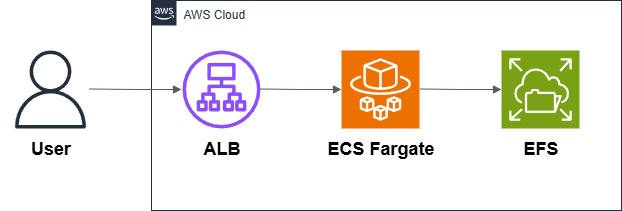
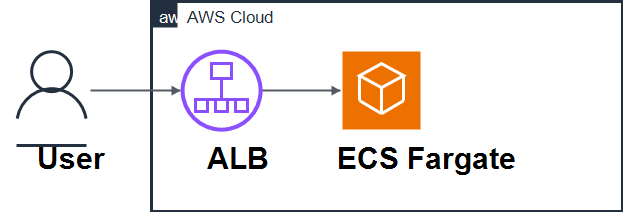
docs: align container architecture documentation

diff --git a/README.md b/README.md
@@ -1,6 +1,6 @@
 # AWS Containerized Web App
 
-This repository is a compact reference project for running a containerized web application on AWS using ECS Fargate, an Application Load Balancer, private subnets, and EFS shared storage.
+This repository is a compact reference project for running a containerized Node.js web application on AWS using ECS Fargate, an Application Load Balancer, private subnets, and Terraform.
 
 The configuration is intentionally compact so the infrastructure relationships are easy to inspect. It is a baseline deployment, not a complete container platform.
 
@@ -8,29 +8,28 @@ The configuration is intentionally compact so the infrastructure relationships a
 
 This project represents a small web application or internal service that runs as a container behind a load balancer while keeping ECS tasks in private subnets.
 
-Realistic examples include a simple backend web service, admin tool, or content-serving application where the ALB handles public HTTP routing and EFS provides shared file storage across task replacements.
+Realistic examples include a simple backend web service or internal service where the ALB handles public HTTP routing and ECS runs the application container in private subnets.
 
 ## What This Lab Demonstrates
 
 - Running a container task on AWS Fargate
 - Routing public HTTP traffic through an Application Load Balancer
 - Placing ECS tasks in private subnets
-- Mounting Amazon EFS into containers through an access point
-- Using Terraform modules to separate VPC, ALB, EFS, and ECS concerns
-- Identifying trade-offs around public access, shared storage, and network cost
+- Using Terraform modules to separate VPC, ALB, and ECS concerns
+- Identifying trade-offs around public access, private task networking, and network cost
 
 ## Architecture Overview
 
 ![Containerized Web App Diagram](diagram/containerized-web-app.png)
 
-The Terraform configuration creates a VPC with public and private subnets, an internet-facing ALB, an ECS Fargate service, and an EFS file system mounted into the task. The ALB listens on HTTP port 80 and forwards requests to the Fargate task.
+The Terraform configuration creates a VPC with public and private subnets, an internet-facing ALB, and an ECS Fargate service. The ALB listens on HTTP port 80 and forwards requests to the Node.js application container on port 3000.
 
 Runtime request flow:
 
 - A user request reaches the public ALB.
-- The ALB forwards the request to the ECS target group.
-- A Fargate task serves the application from private subnets.
-- The task can mount EFS when shared persistent files are needed.
+- The ALB forwards the request to the ECS target group on port 3000.
+- A Fargate task serves the Node.js application from private subnets.
+- ALB target health checks call `GET /health`.
 - Container logs are sent to CloudWatch Logs for basic runtime inspection.
 
 The ECS service uses a fixed desired count. Autoscaling is not currently implemented. Basic deployment rollback and ALB target health behavior are configured.
@@ -43,7 +42,6 @@ The ECS service uses a fixed desired count. Autoscaling is not currently impleme
 | Amazon ECS | Runs the container service |
 | AWS Fargate | Provides serverless container compute |
 | Elastic Load Balancing | Routes HTTP traffic to ECS tasks |
-| Amazon EFS | Provides shared persistent file storage |
 | AWS IAM | Provides ECS task execution and task roles |
 | Amazon CloudWatch Logs | Stores ECS task container logs |
 
@@ -55,8 +53,7 @@ The Terraform configuration provisions:
 - NAT gateway for private subnet outbound access, which creates standing hourly cost while deployed
 - Application Load Balancer and target group
 - ECS cluster, task definition, and service
-- EFS file system, mount targets, and access point
-- Security groups for ALB, ECS, and EFS
+- Security groups for ALB and ECS
 - IAM roles for ECS task execution and task permissions
 - CloudWatch log group for ECS task logs
 
@@ -64,14 +61,13 @@ The Terraform configuration provisions:
 
 | Path | Purpose |
 | --- | --- |
-| `main.tf` | Root Terraform wiring for VPC, EFS, ALB, and ECS modules |
-| `variables.tf` | Region and container image inputs |
+| `main.tf` | Root Terraform wiring for VPC, ALB, and ECS modules |
+| `variables.tf` | Region, naming, application image, and runtime inputs |
 | `app/` | Minimal TypeScript sample app and Dockerfile |
 | `.github/workflows/ci.yml` | GitHub Actions workflow for app, container, and Terraform validation |
 | `modules/vpc/` | VPC, subnets, and NAT gateway |
 | `modules/alb/` | ALB, listener, target group, and ALB security group |
 | `modules/ecs-fargate/` | ECS cluster, task definition, service, and IAM roles |
-| `modules/efs/` | EFS file system, mount targets, access point, and security group |
 | `diagram/` | Architecture diagram |
 | `images/` | Demo screenshots |
 
@@ -81,12 +77,15 @@ Prerequisites:
 
 - AWS credentials configured locally
 - Terraform installed
+- An externally built application image reference for `app_image_uri`
 - A region where the selected services are available
 
 Deploy:
 
 ```bash
 terraform init
+cp terraform.tfvars.example terraform.tfvars
+# Edit terraform.tfvars and set app_image_uri to an image you control.
 terraform plan
 terraform apply
 terraform output alb_dns_name
@@ -122,9 +121,9 @@ npm run test:container
 
 The smoke test builds the image, starts a temporary container on `127.0.0.1`, runs it with a read-only root filesystem, drops Linux capabilities, enables `no-new-privileges`, checks `GET /health` and `GET /`, verifies the runtime UID is not root, stops the container through Docker, checks shutdown logs, and removes the temporary container.
 
-Terraform deployment still uses the configured `container_image` value and the existing nginx/EFS path. Wiring this sample image into ECS, adding ECR, and publishing immutable image tags are left for a later batch. AWS runtime validation remains pending until the infrastructure is aligned and deployed.
+Terraform expects `app_image_uri` to reference an externally built application image. This repository does not create ECR yet, and image publication remains manual or external to this Terraform configuration. AWS runtime validation remains pending until an image is supplied and the stack is deployed.
 
-Use an explicit image tag or immutable digest for `container_image`, such as `nginx:1.27-alpine` or an image reference ending in `@sha256:...`. The local app Dockerfile can be used to build an owned image, but ECS still runs the configured image until image publishing and wiring are added later.
+Use an immutable digest for deterministic deployment when possible, such as an image reference ending in `@sha256:...`. The local app Dockerfile can be used to build an owned image, but this phase does not create or push that image to a registry.
 
 ## CI Validation
 
@@ -145,13 +144,14 @@ The workflow validates the application, container build, and Terraform configura
 terraform destroy
 ```
 
-Review the destroy plan before confirming. EFS, load balancers, NAT gateways, and CloudWatch resources can continue to create cost if left behind.
+Review the destroy plan before confirming. Load balancers, NAT gateways, Fargate tasks, and CloudWatch resources can continue to create cost if left behind.
 
 ## Security Notes
 
 - The ALB listener is public HTTP on port 80 for learning/demo purposes. Real deployments should add HTTPS with ACM, redirect HTTP to HTTPS, and review security controls.
 - ECS task ingress is limited to the ALB security group.
-- EFS NFS ingress is limited to the ECS task security group.
+- The ECS task definition enables a read-only root filesystem and drops Linux capabilities. ECS task definitions do not expose a direct `no-new-privileges` setting equivalent to the local Docker smoke test.
+- The execution role is used for ECS startup operations such as pulling the image and writing logs. The task role has no additional application policies because the app does not call AWS APIs.
 - Outbound egress is broad in the demo security groups.
 - No authentication or application-layer authorization is implemented.
 
@@ -162,7 +162,6 @@ Potential standing cost drivers include:
 - NAT gateway hourly charges and data processing
 - Application Load Balancer hourly charges
 - Fargate task runtime
-- EFS storage and throughput
 - CloudWatch Logs storage and ingestion
 
 Destroy the stack after testing if you do not need it running.
@@ -172,7 +171,8 @@ Destroy the stack after testing if you do not need it running.
 - No ECS service autoscaling is configured.
 - The ALB uses HTTP, not HTTPS.
 - No custom domain or certificate is configured.
-- The task definition uses a simple container image input and a bootstrap container to seed basic content.
+- Terraform expects an externally supplied application image URI; ECR is not created yet.
+- The ECS task uses `PORT=3000` and `SHUTDOWN_TIMEOUT_MS=10000`. ECS `stopTimeout` is set to 15 seconds, and the ALB target group deregistration delay is set to 30 seconds.
 - The CI workflow validates changes but does not publish container images or deploy to AWS.
 - Observability is limited to ECS task logs and ALB target health checks.
 - IAM and security group rules should be reviewed before using this pattern outside a learning or sandbox account.
@@ -181,7 +181,6 @@ Destroy the stack after testing if you do not need it running.
 
 - ECS Fargate reduces compute management compared with self-managed container hosts, but gives less control over the underlying runtime environment.
 - A public ALB with private ECS tasks keeps task networking private while still exposing HTTP entry points.
-- EFS supports shared persistent files across task replacements, but stateless containers are simpler to scale and operate.
 - A NAT gateway simplifies private subnet outbound access, but it adds standing cost.
 - The compact Terraform structure is easier to inspect, but it does not include the controls expected from a complete container platform.
 
@@ -190,13 +189,13 @@ Destroy the stack after testing if you do not need it running.
 - Add HTTPS listener support with ACM.
 - Add CloudWatch metrics and alarms for ECS and ALB signals.
 - Add ECS service autoscaling policies.
-- Add an image publishing path for the sample app, such as an ECR-backed workflow with immutable image tags.
+- Add ECR and an image publishing path for the sample app with immutable image references.
 
 ## Project Maturity
 
 Maturity: Basic / baseline reference project.
 
-This repo is useful for discussing Fargate networking, ALB routing, and EFS trade-offs. It needs additional security, operational, and deployment controls before it should be adapted for real workloads.
+This repo is useful for discussing Fargate networking, ALB routing, container health checks, and image deployment trade-offs. It needs additional security, operational, and deployment controls before it should be adapted for real workloads.
 
 ## Related Reference Hub
 
